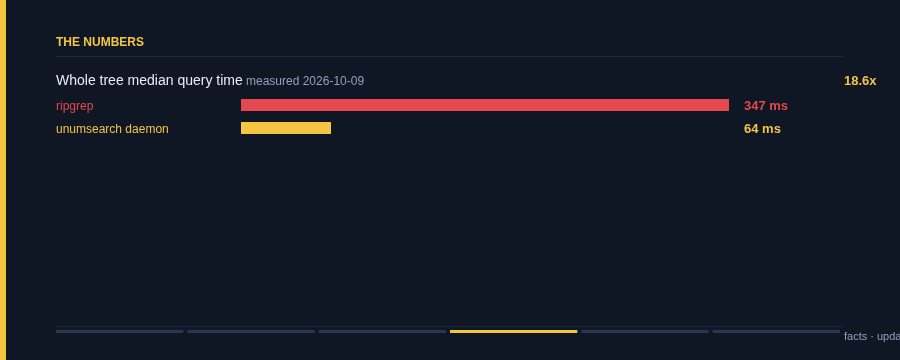
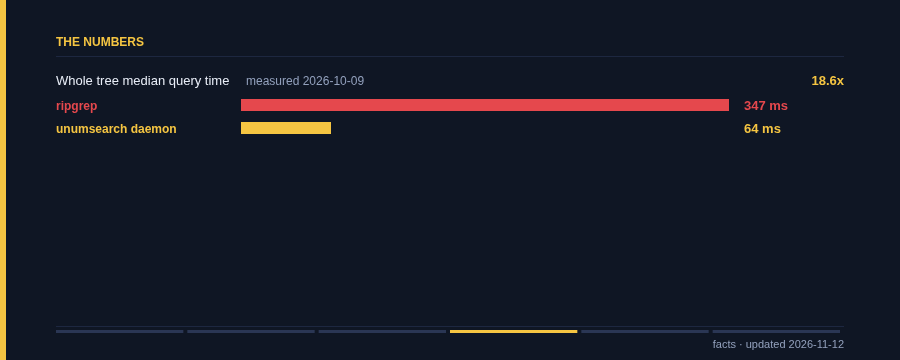
docs: story-hero alt lists the drawn numbers (ripgrep 347 ms vs daemon 64 ms)
Re-rendered with the clip-fixed story-hero scene (footer and copy no longer cut at the card edge).

Claude-Session: https://claude.ai/code/session_01LXgiP3aqHmaQn2MeUH3WBs

diff --git a/README.md b/README.md
@@ -8,7 +8,7 @@
 
 <img src="docs/media/hero.svg" alt="ripgrep reads every one of 258,000 files in 4.0 s; unumsearch checks its index of clues, opens only the suspect files and finds the same answer in 0.22 s" width="900">
 
-<img src="docs/media/story-hero.gif" alt="unumsearch: The detective for your code. Your AI agents search the same files all day; unumsearch keeps the clues. Whole tree median query time, ripgrep 15.1 (no index): 347 ms measured 2026-10-09. unumsearch is built into OpenUnum: its search tools use the daemon and fall back on their own." width="900">
+<img src="docs/media/story-hero.gif" alt="unumsearch: The detective for your code. Your AI agents search the same files all day; unumsearch keeps the clues. Whole tree median query time: ripgrep 347 ms vs unumsearch daemon 64 ms measured 2026-10-09. unumsearch is built into OpenUnum: its search tools use the daemon and fall back on their own." width="900">
 
 <sub>Hero figures measured 2026-10-09.</sub>
 
